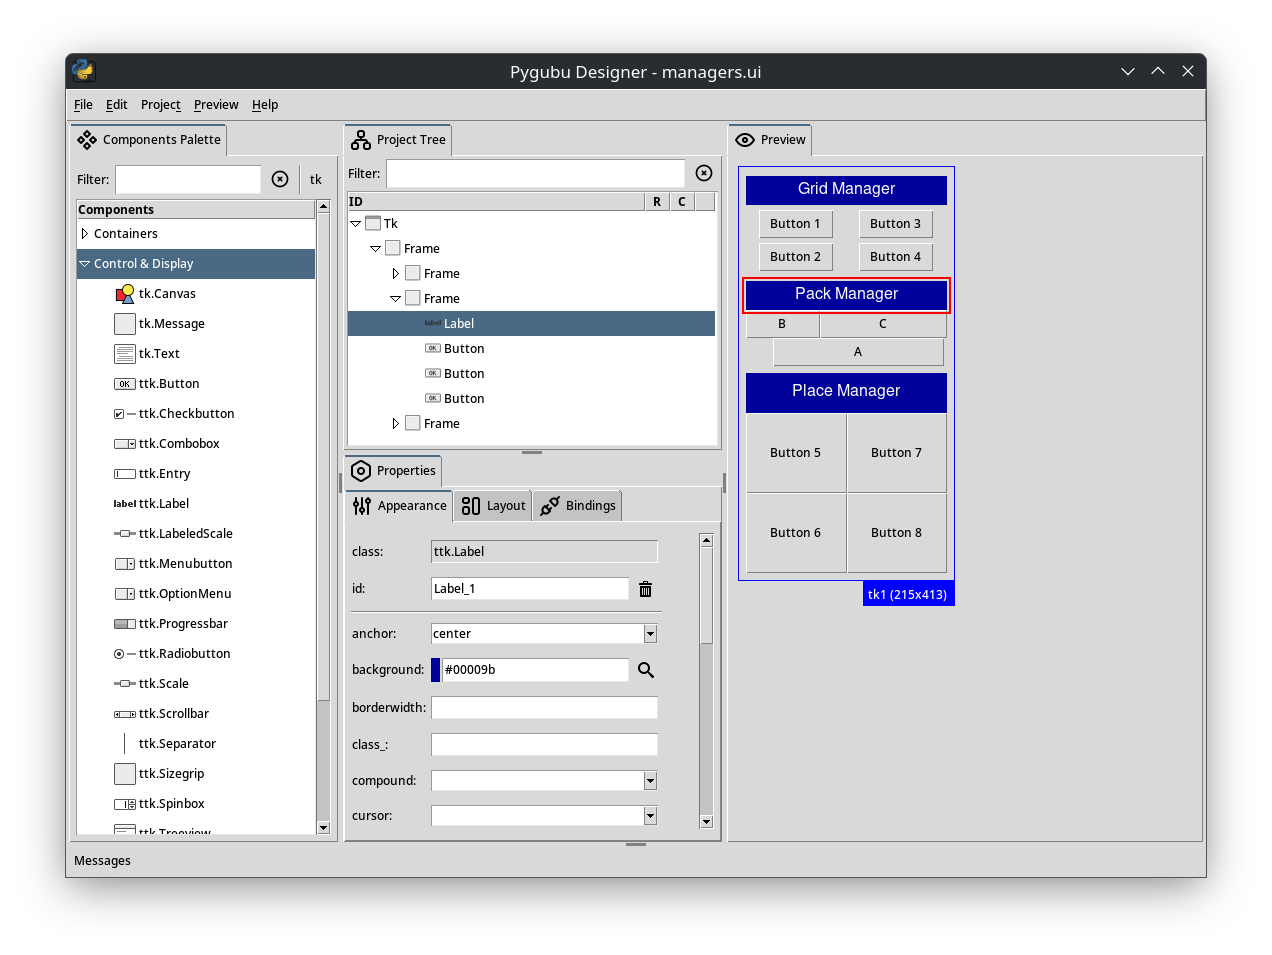
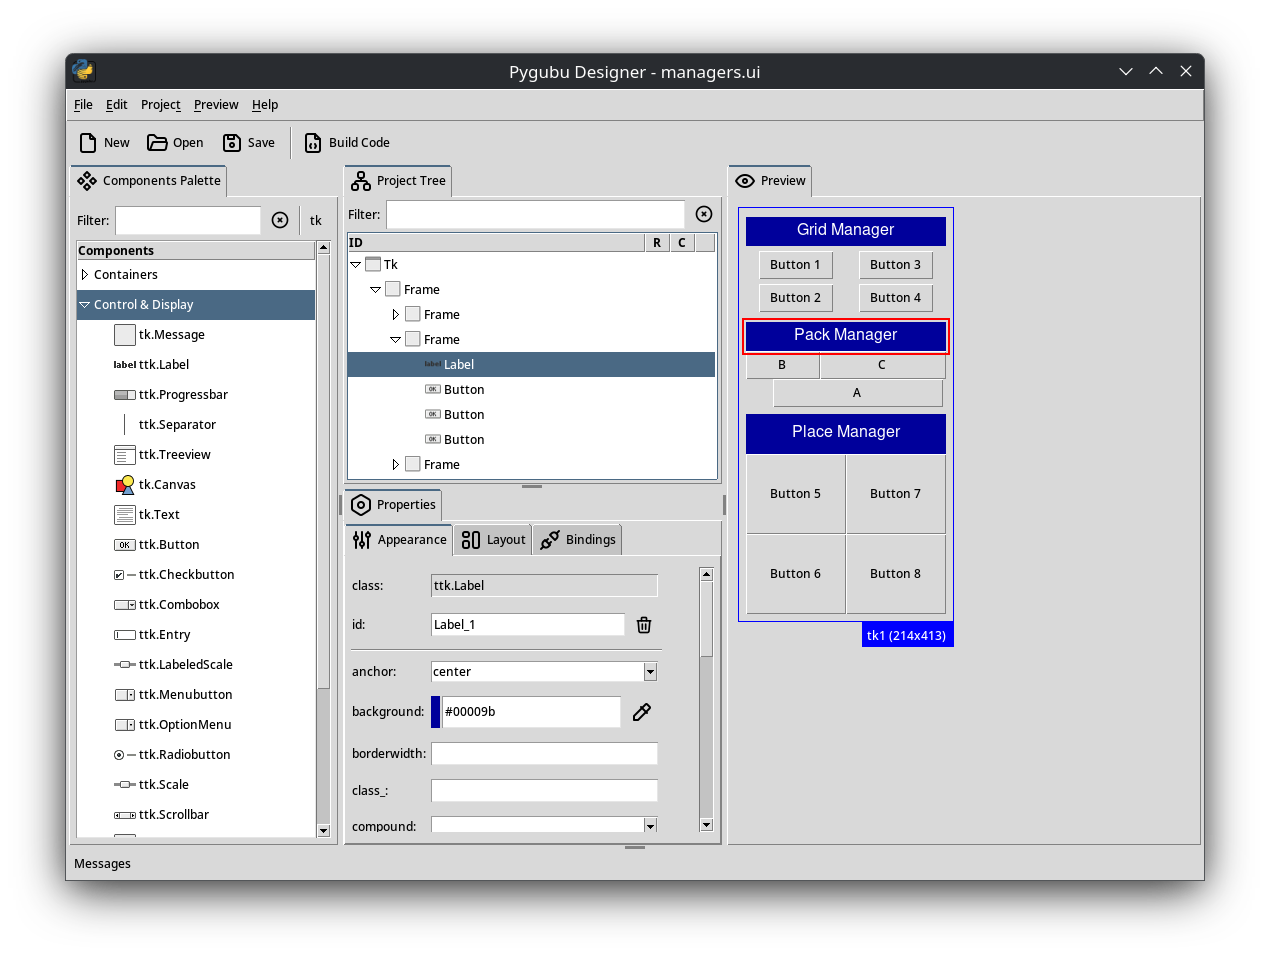
Prepare new version.

Changed region(s): [[0.0307, 0.0607, 0.9827, 0.9717], [0.0921, 0.0304, 0.9213, 0.0911]]

diff --git a/HISTORY.md b/HISTORY.md
@@ -1,6 +1,11 @@
 History
 =======
 
+Changes for version 0.44
+
+  * New main toolbar with basic buttons.
+  * Fix erroneous base class name generated when using custom widget templates.
+
 Changes for version 0.43.3
 
   * Fix for issue #318, missing import when using ttk styles definition file. (PR #319 @kootenay-joe)